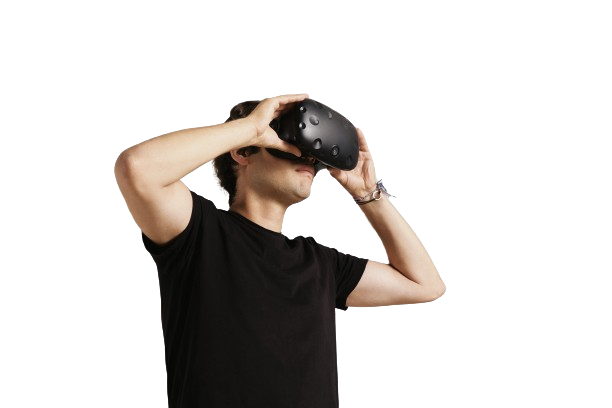
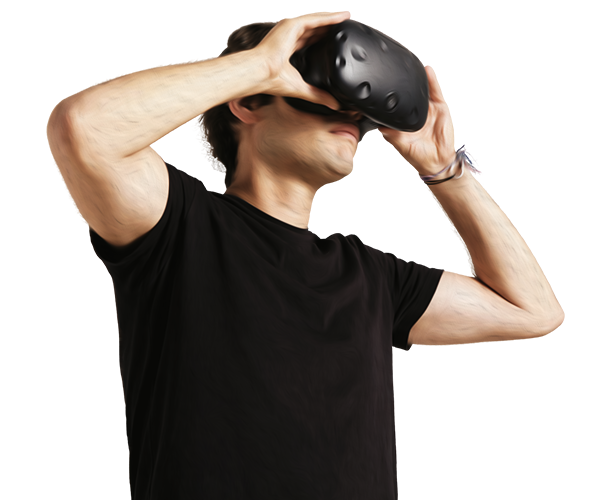
Add files via upload

diff --git a/main.css b/main.css
@@ -350,34 +350,32 @@ body.active {
   border-bottom: 1px solid #4d4d4d;
 }
 .aboutus .leftsidecont figure {
-  height: 400px;
-  width: 500px;
+  height: 450px;
+  width: 550px;
   background-color: #83bcc7;
   border-radius: 50%;
   border-top-left-radius: 7rem;
   position: relative;
-  display: flex;
-  justify-content: center;
-  align-items: center;
-}
-.aboutus .leftsidecont figure::after {
-  content: "";
-  position: absolute;
-  left: 25%;
-  top: 40%;
-  width: 400px;
-  height: 250px;
-  background: #4c9cd2;
-  border-radius: 50%;
   box-shadow: 0 0 12px rgba(0, 0, 0, 0.7);
-  opacity: 0.3;
-  z-index: -1;
 }
 .aboutus .leftsidecont figure img {
-  height: 100%;
-  width: 100%;
-  margin-bottom: 6rem;
-  margin-left: 8rem;
+  height: 500px;
+  border-radius: 48%;
+  position: absolute;
+  bottom: 0rem;
+}
+.aboutus .leftsidecont figure::before {
+  content: "";
+  position: absolute;
+  left: 40%;
+  top: 25%;
+  width: 350px;
+  height: 350px;
+  background: #002641;
+  opacity: 0.5;
+  border-radius: 50%;
+  z-index: -1;
+  box-shadow: 0 0 12px rgba(0, 0, 0, 0.7);
 }
 .aboutus .rightsidecont .a {
   font-size: 36px;
